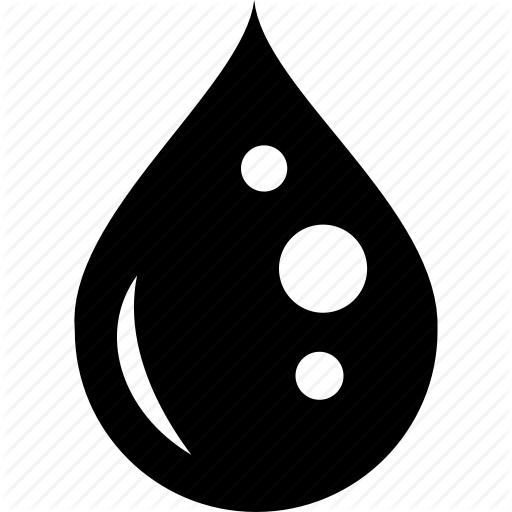
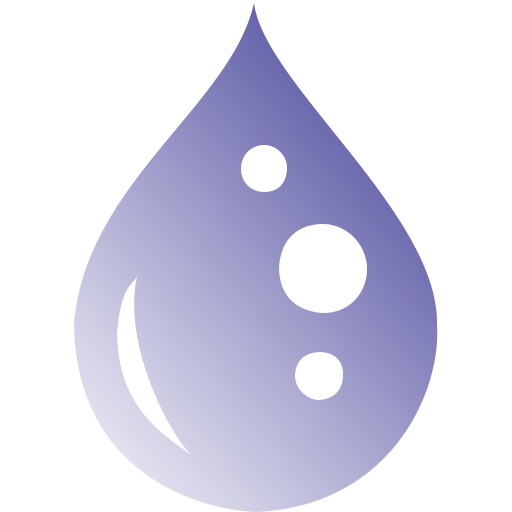
styling changes

diff --git a/Software/Website/html/settings.html b/Software/Website/html/settings.html
@@ -64,9 +64,7 @@
                     <h3 style="text-align: center;">Existing Users</h3>
                     <ul id="existing-users">
                         <!--SPLIT-->
-                        <li>Kasia | kasia.lenard@gmail.com</li>
-                        <li>Mustafa | biyiklimustafa96@gmail.com</li>
-                        <!--SPLIT-->
+						<!--SPLIT-->
                     </ul>
                 </div>
             </div>

diff --git a/Software/Website/css/style.css b/Software/Website/css/style.css
@@ -192,7 +192,6 @@ section a {
 .gauge-title-container img {
     float: left;
     opacity: 0.8;
-    filter: drop-shadow(1px 1px 1px #aaa);
 }
 
 .gauge-title-container h4 {
